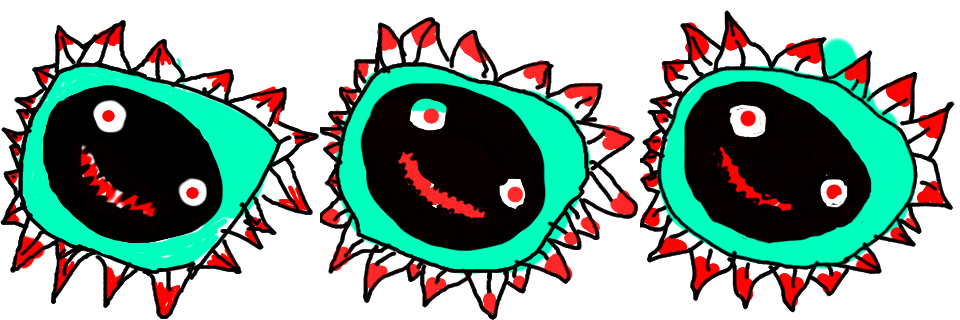
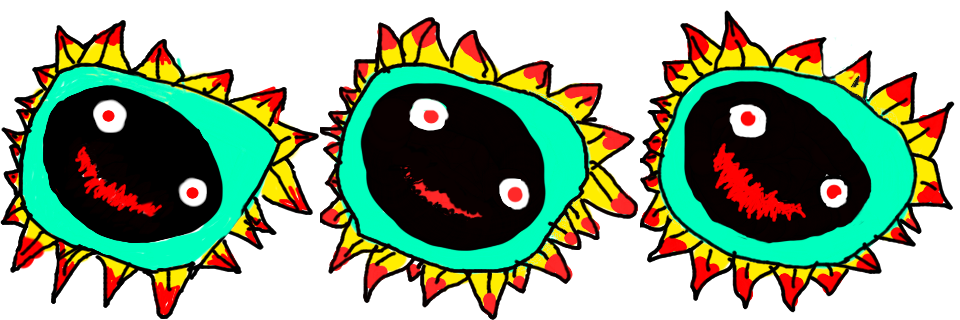
ITSART JUMPSCARE

diff --git a/js/elevador.js b/js/elevador.js
@@ -3,8 +3,8 @@ var user = {
     id: "player",
     name: "",
     serverPlayerPos: { x: 180, y: 660 },
-    left: 920,
-    top: 1500,
+    left: 888,
+    top: 1465,
     width: 100,
     height: 10,
     face: 0,
@@ -36,8 +36,8 @@ document.addEventListener('keyup', keyUp);
 let mode = "move"
 let oldpos = { x: 0, y: 0 }
 let player = {
-    top: 1500,
-    left: 920,
+    top: 1465,
+    left: 888,
     width: 100,
     height: 20,
     hidden: true
@@ -351,7 +351,7 @@ function movePlayer() {
         if (player != null) {
 
             let x1 = player.left - windowx / 2 + 32;
-            let y1 = player.top + (player.height * 1.8) - windowy / 4 - 64;
+            let y1 = player.top + (player.height * 2);
             let wx = container.scrollLeft;
             let wy = container.scrollTop;
             let tx = wx + (x1 - wx) * 0.5;
@@ -376,7 +376,7 @@ async function loadPlayer() {
         sprite.src = 'game/' + nome + '.png'
         sprite.onload = function () {
             playerImg[nome] = sprite
-            container.scrollTo(500, 1200)
+            container.scrollTo(740, 1470)
             setTimeout(() => window.focus(), 3000)
         }
     }
@@ -484,9 +484,9 @@ function playershake() {
         clearInterval(shaking); setTimeout(() => {
             avatar.style.rotate = "0deg";
             avatar.style.opacity = 1
-            user.left = 920
+            user.left = 888
             avatar.style.left = user.left + "px";
-            user.top = 1500
+            user.top = 1465
             avatar.style.top = user.top + "px";
             avatar.classList.remove("some")
 

diff --git a/index.html b/index.html
@@ -93,7 +93,7 @@
 
         <span id="blog" class="bloco ">📔 Mini - Blog do Diego</span>
         <span id="bio" class="bloco "></span>
-        <div id="dubside" style="display: block; position: absolute; top: 1780px;">
+        <div id="dubside" style="display: block; position: absolute; top: 1990px; left:900px; z-index: 11;">
 
             <iframe tabindex="-1" width="100%" height="166" scrolling="no" frameborder="no" allow="autoplay"
                 src="https://w.soundcloud.com/player/?url=https%3A//api.soundcloud.com/tracks/456915012&color=%23ff5500&auto_play=true&hide_related=false&show_comments=true&show_user=true&show_reposts=false&show_teaser=true"></iframe>

diff --git a/js/monstro.js b/js/monstro.js
@@ -18,7 +18,7 @@ var monstro = {
 
 function newMonster() {
     let monstroimg = document.createElement("img")
-    monstroimg.src = "/game/monstro2.png"
+    monstroimg.src = "/game/monstro.png"
     let monstro = document.createElement("div")
     monstro.id = "monstro"
     monstro.style.display = "block"

diff --git a/css/elevador.css b/css/elevador.css
@@ -208,3 +208,21 @@ body {
     color: #b9a455;
     font-family: Georgia, 'Times New Roman', Times, serif
 }
+
+.jumpscare {
+    animation: jumpscare 0.4s
+}
+
+@keyframes jumpscare {
+    from {
+        transform: scale(0.5)
+    }
+
+    to {
+        transform: scale(4)
+    }
+
+    ;
+
+
+}
